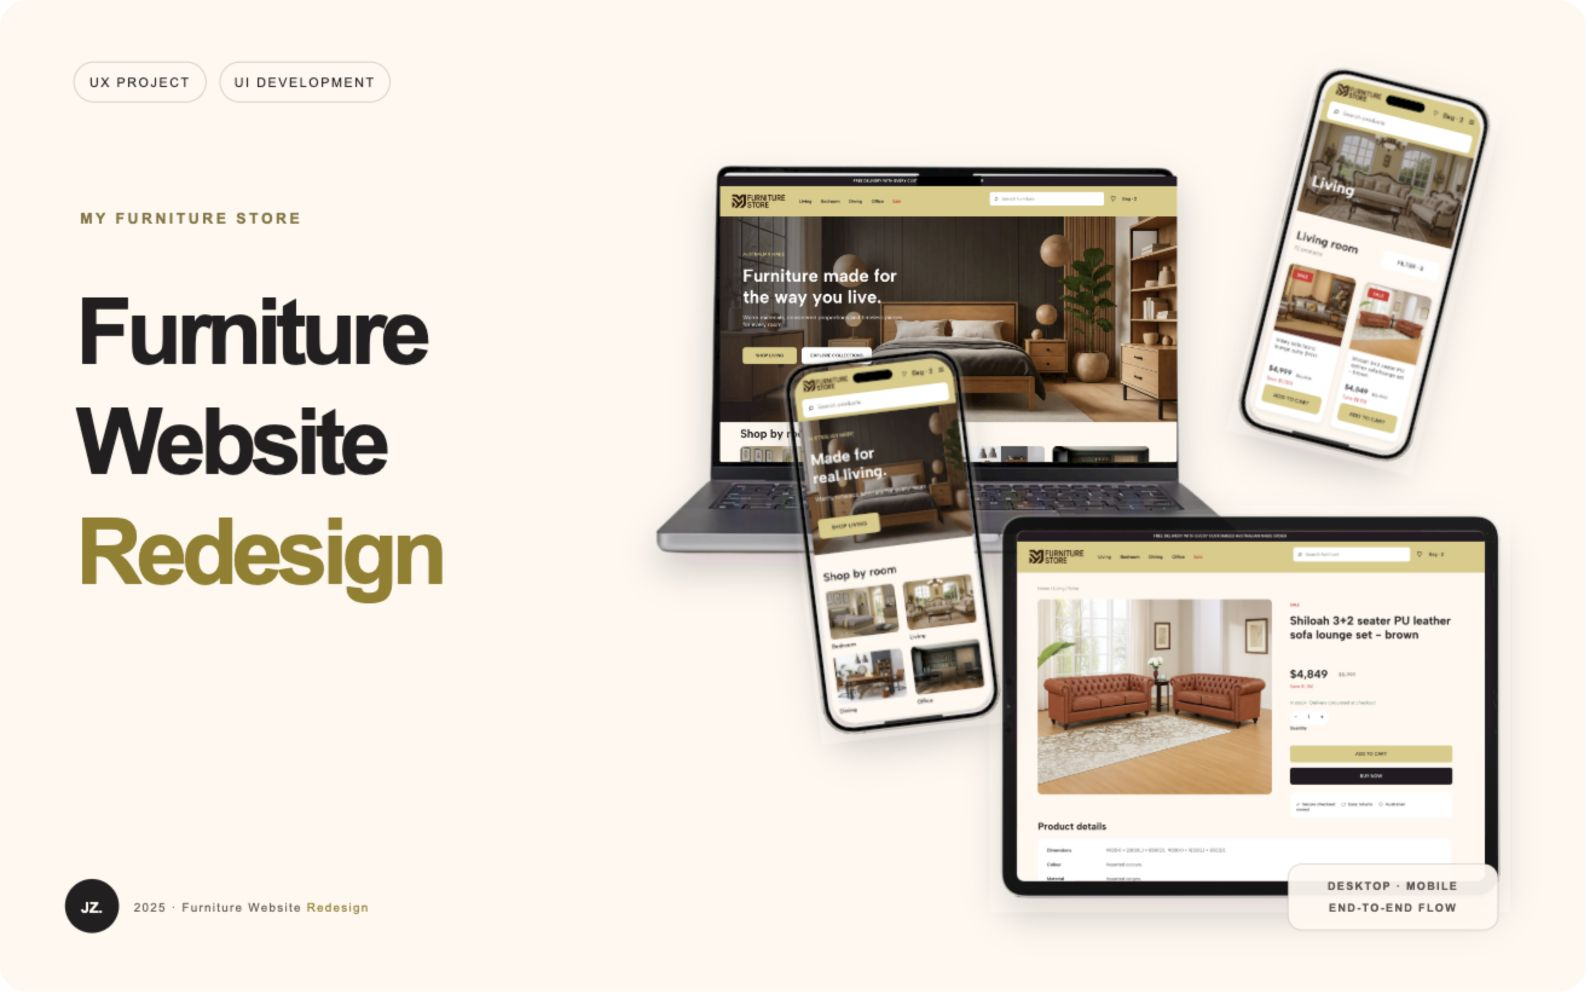
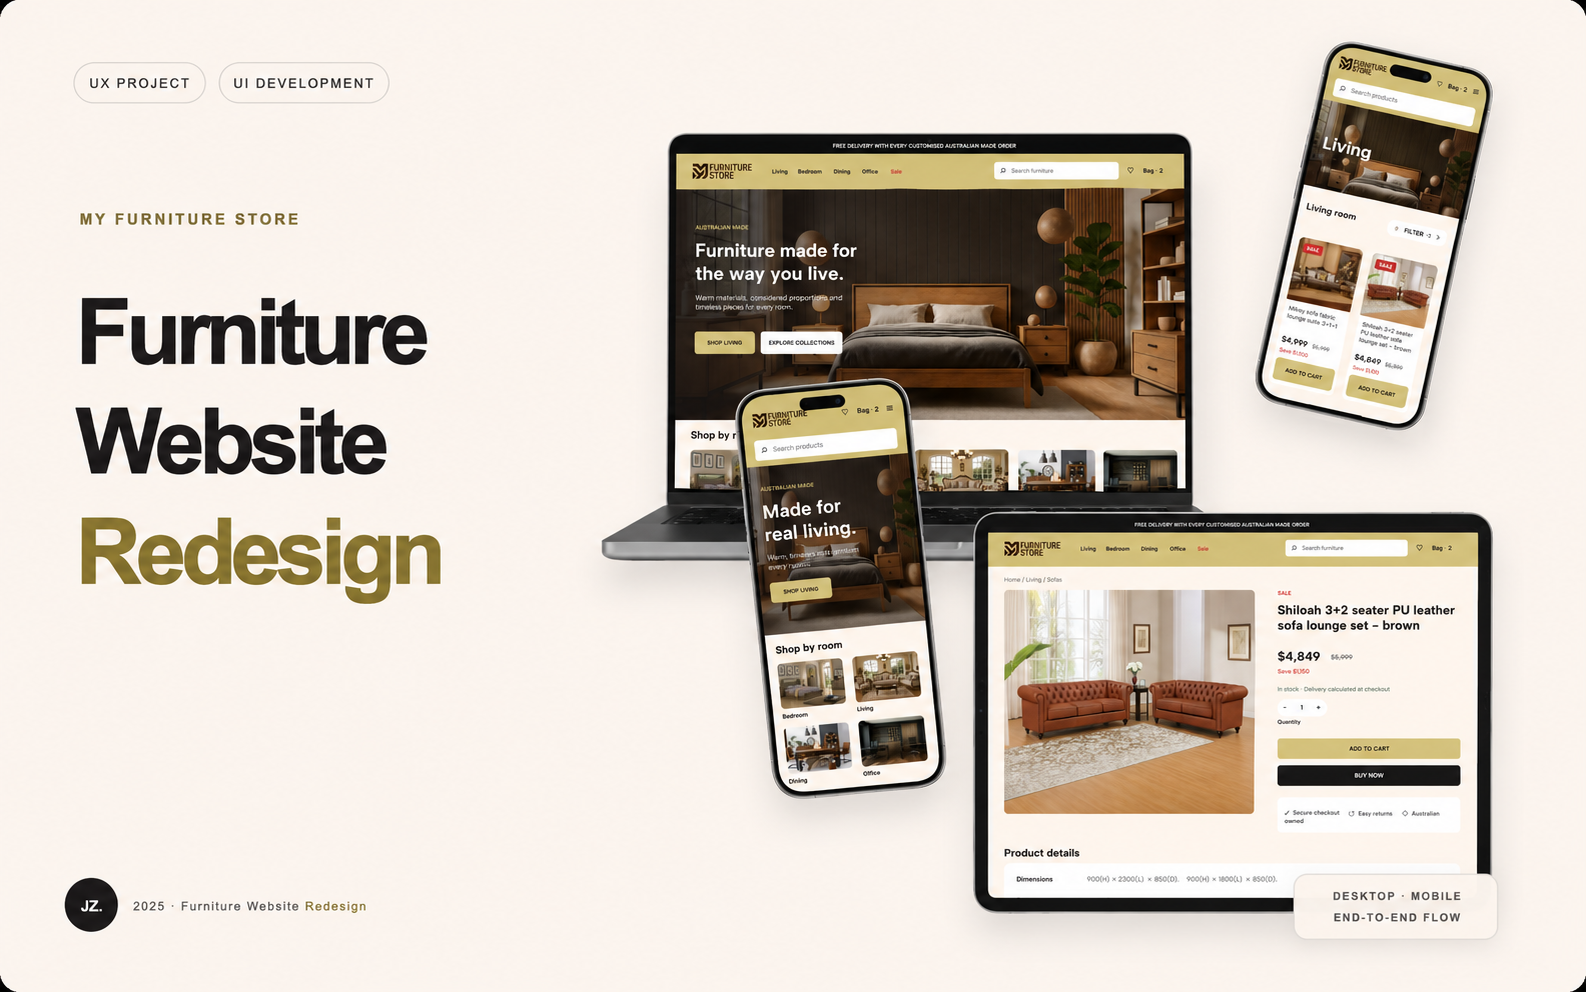
Update responsive furniture project cover

diff --git a/src/styles.css b/src/styles.css
@@ -488,7 +488,7 @@ p { text-wrap: pretty; }
 .furniture-live-link svg { justify-self: end; }
 .furniture-hero-media { min-height: 66vh; margin: 0; overflow: hidden; border: 1px solid rgba(219,202,131,.28); border-radius: 28px; background: #231f20; box-shadow: 0 50px 100px rgba(0,0,0,.28); }
 .furniture-hero-media img { display: block; width: 100%; height: 100%; min-height: 66vh; object-fit: cover; }
-.furniture-project-cover-image { display: block; width: 100%; height: auto; aspect-ratio: 1586 / 992; border: 1px solid rgba(219,202,131,.24); border-radius: 22px; background: #fff8f0; object-fit: contain; }
+.furniture-project-cover-image { display: block; width: 100%; height: 560px; border: 1px solid rgba(219,202,131,.24); border-radius: 22px; background: #fff8f0; object-fit: cover; object-position: center; }
 .furniture-case { --furn-gold: #dbca83; --furn-cream: #fff8f0; --furn-ink: #231f20; --furn-soft: #e9dfaf; background: #070f1d; }
 .furniture-case img { display: block; max-width: 100%; }
 .furniture-intro, .furniture-section { padding: 140px var(--side); }
@@ -791,6 +791,7 @@ p { text-wrap: pretty; }
   .feature-assistant > div:last-child { grid-column: 2; margin-top: 6px; }
   .feature-timeline { transform: translateX(4%); }
   .media-placeholder { min-height: 450px; }
+  .furniture-project-cover-image { height: 450px; }
   .project-meta { grid-template-columns: 1fr 5fr 3fr; }
   .about-preview .media-placeholder, .about-profile .media-placeholder { min-height: 550px; }
   .case-section-grid { grid-template-columns: 1fr 1fr; }
@@ -858,6 +859,7 @@ p { text-wrap: pretty; }
   .section-intro > div:last-child > p { font-size: .84rem; }
   .project-list, .work-index { gap: 90px; }
   .media-placeholder { min-height: 330px; }
+  .furniture-project-cover-image { height: 330px; border-radius: inherit; }
   .media-alt { left: 14px; right: 14px; bottom: 13px; align-items: flex-start; flex-direction: column; gap: 6px; }
   .media-alt p { max-width: 92%; text-align: left; font-size: .5rem; }
   .media-alt span { font-size: .47rem; }
